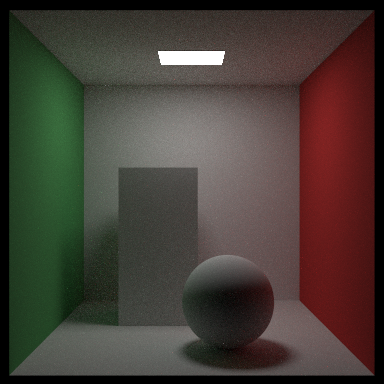
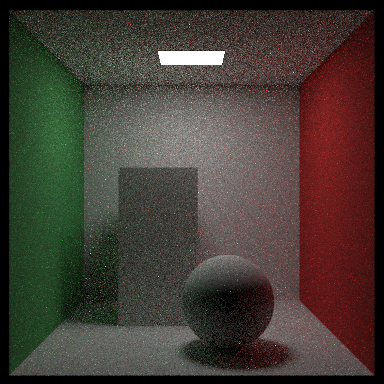
Refactor PDF

diff --git a/code/Main.cs b/code/Main.cs
@@ -21,31 +21,30 @@ namespace RayTracingInOneWeekend
             if (depth <= 0)
                 return Vector3.Zero;
 
-            HitRecord record = new HitRecord();
+            HitRecord hrec = new HitRecord();
 
-            if (!(world.hit(ray, Ray.ZMin, Ray.ZMax, ref record)))
+            if (!(world.hit(ray, Ray.ZMin, Ray.ZMax, ref hrec)))
                 return background;
 
-            Ray scattered = new Ray();
-            // scattered.time = 0.0f;
-            Material mat = record.material;
-            Vector3 emitted = mat.emit(ray, record);
-            float pdfValue = 0.0f;
-            // Vector3 attenuation = new Vector3(0.0f);
-            Vector3 albedo = new Vector3(0.0f);
-
-            if (!mat.scatter(ray, record, ref albedo, ref scattered, ref pdfValue))
+            Material mat = hrec.material;
+            Vector3 emitted = mat.emit(ray, hrec);
+            ScatterRecord srec = new ScatterRecord();
+            if (!mat.scatter(ray, hrec, ref srec))
                 return emitted;
             
-            var pdf0 = new HittablePdf(light, record.point);
-            var pdf1 = new CosinePdf(record.normal);
-            var pdf = new MixturePdf(pdf0, pdf1);
+            // Ray scattered = new Ray()
+            var lightPdf = new HittablePdf(light, hrec.point);
+            var pdf = new MixturePdf(lightPdf, srec.pdf);
 
-            scattered.direction = pdf.generate();
-            pdfValue = pdf.value(scattered.direction);
+            Ray scattered = new Ray(hrec.point, pdf.generate());
 
-            float scatteredPdf = mat.scatterPdf(ray, record, scattered);
-            return emitted + albedo * scatteredPdf * rayColor(scattered, background, light, world, depth - 1) / pdfValue;
+            float pdfValue = pdf.value(scattered.direction);
+            float scatteredPdf = mat.scatterPdf(ray, hrec, scattered);
+
+            return emitted +
+                   srec.attenuation *
+                   scatteredPdf *
+                   rayColor(scattered, background, light, world, depth - 1) / pdfValue;
         }
 
         static void createScene(out HittableList world, out Hittable light, out Camera camera, float aspect)
@@ -107,8 +106,8 @@ namespace RayTracingInOneWeekend
             const int imageHeight = imageWidth;
             // const int imageHeight = 216;
             const float aspectRatio = (float)imageWidth / imageHeight;
-            // const int samplesPerPixel = 30;
-            const int samplesPerPixel = 500;
+            const int samplesPerPixel = 30;
+            // const int samplesPerPixel = 500;
             const int maxDepth = 50;
 
             const int component = 3;

diff --git a/code/Lambertian.cs b/code/Lambertian.cs
@@ -11,15 +11,11 @@ namespace RayTracingInOneWeekend {
             this.albedo = albedo;
         }
 
-        public override bool scatter(in Ray ray, in HitRecord record, ref Vector3 albedo, ref Ray scattered, ref float pdf)
+        public override bool scatter(in Ray ray, in HitRecord hrec, ref ScatterRecord srec)
         {
-            OrthonormalBasis uvw = OrthonormalBasis.CreateFromW(record.normal);
-            Vector3 direction = uvw.local(Utility.RandomCosineDirection());
-            scattered.origin = record.point;
-            scattered.direction = direction;
-            scattered.time = ray.time;
-            albedo = this.albedo.value(record.uv, record.point);
-            pdf = Vector3.Dot(uvw.w, direction) / Utility.Pi;
+            srec.isSpecular = false;
+            srec.attenuation = albedo.value(hrec.uv, hrec.point);
+            srec.pdf = new CosinePdf(hrec.normal);
             return true;
         }
 

diff --git a/code/Material.cs b/code/Material.cs
@@ -2,9 +2,20 @@ using System.Numerics;
 
 namespace RayTracingInOneWeekend {
 
-    public abstract class Material
+    public struct ScatterRecord
     {
-        public abstract bool scatter(in Ray ray, in HitRecord record, ref Vector3 albedo, ref Ray scattered, ref float pdf);
+        public Ray specularRay;
+        public bool isSpecular;
+        public Vector3 attenuation;
+        public Pdf pdf;
+    }
+
+    public class Material
+    {
+        public virtual bool scatter(in Ray ray, in HitRecord hrec, ref ScatterRecord srec)
+        {
+            return false;
+        }
 
         public virtual float scatterPdf(in Ray ray, in HitRecord record, in Ray scattered)
         {

diff --git a/code/DiffuseLight.cs b/code/DiffuseLight.cs
@@ -10,11 +10,6 @@ namespace RayTracingInOneWeekend {
             this.emission = emission;
         }
 
-        public override bool scatter(in Ray ray, in HitRecord record, ref Vector3 albedo, ref Ray scattered, ref float pdf)
-        {
-            return false;
-        }
-
         public override Vector3 emit(in Ray ray, in HitRecord record)
         {
             // return record.frontFace ? emission.value(record.uv, record.point) : Vector3.Zero;
